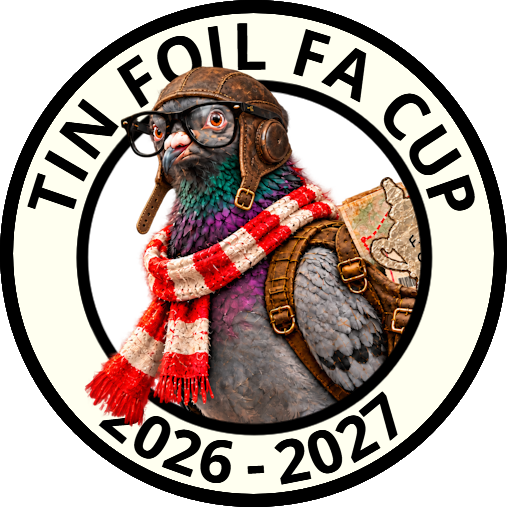
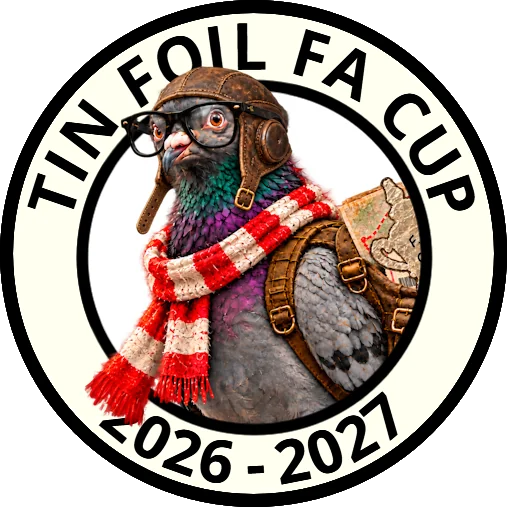
Reduce Barry Air's left-facing crest download by70percent (#586)

diff --git a/beta/barry-air/index.html b/beta/barry-air/index.html
@@ -2,7 +2,7 @@
 <body><main class="field data-pending" aria-busy="true">
 <section class="module-frame landing-frame" id="landing" aria-label="Welcome aboard Barry Air">
 <div class="airline"><img src="assets/barry-wings-clear.webp" width="1300" height="433" alt="Barry Air Art Deco pilot wings with Captain Barry"><p>Established 2022</p></div>
-<header class="masthead"><div class="welcome"><p class="eyebrow">WELCOME ABOARD</p><h1>Pigeon Control</h1><p class="strapline">Your Campaign. In flight.</p><p class="intro">Straight there. Straight back.<br>No messing about!</p></div><img class="crest" src="assets/barry-crest-left.webp" alt="Barry in the Tin Foil FA Cup crest" width="160" height="160"></header><p id="campaign-status" role="status">Preparing your boarding pass…</p><button id="retry-flight" type="button" hidden>Try again</button>
+<header class="masthead"><div class="welcome"><p class="eyebrow">WELCOME ABOARD</p><h1>Pigeon Control</h1><p class="strapline">Your Campaign. In flight.</p><p class="intro">Straight there. Straight back.<br>No messing about!</p></div><img class="crest" src="assets/barry-crest-left.webp?v=q85" alt="Barry in the Tin Foil FA Cup crest" width="160" height="160"></header><p id="campaign-status" role="status">Preparing your boarding pass…</p><button id="retry-flight" type="button" hidden>Try again</button>
 <section class="next-flight boarding-pass" aria-labelledby="next-heading">
 <div class="pass-brand"><span>BARRY AIR</span><span>BOARDING PASS</span></div>
 <div class="pass-body"><label class="pass-checkin"><input id="check-in" type="checkbox"><span id="check-in-label">CHECK IN FOR YOUR FLIGHT</span></label>
